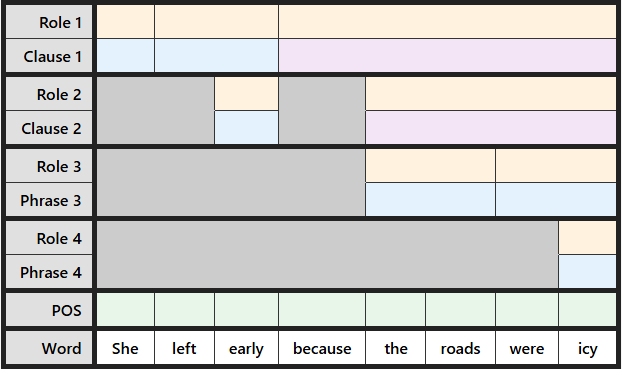
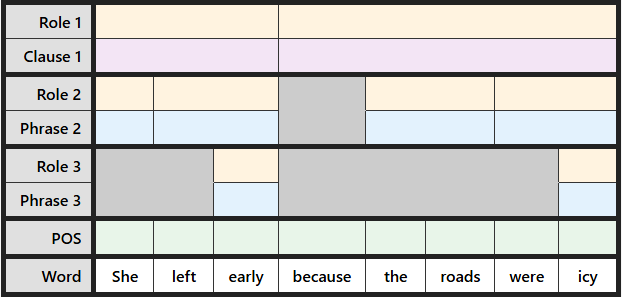
Fix Ex 18 bracket: SBAR → IC/DC clause notation for labeling table
Replaced SBAR/COMP/S bracket with IC/DC notation so the labeling table
shows a single clause row with IC (She left early) and DC (because the
roads were icy). Updated JSON roles and answer key script to match.

diff --git a/docs/index.html b/docs/index.html
@@ -2,7 +2,7 @@
 <html>
 <!--********************************************-->
 <!--*       Generated from PreTeXt source      *-->
-<!--*       on 2026-04-15T14:53:40-06:00       *-->
+<!--*       on 2026-04-15T15:13:05-06:00       *-->
 <!--*   A recent stable commit (2022-07-01):   *-->
 <!--* 6c761d3dba23af92cba35001c852aac04ae99a5f *-->
 <!--*                                          *-->

diff --git a/scripts/generate_ch12_answer_key.py b/scripts/generate_ch12_answer_key.py
@@ -59,10 +59,10 @@ DIAGRAM_EXERCISES = [
     {
         'num': 18, 'sentence': 'She left early because the roads were icy.',
         'words':   ['She', 'left', 'early', 'because', 'the', 'roads', 'were', 'icy'],
-        'roles':   ['Subj', 'Pred', '', 'Advl', '', '', '', ''],
-        'phrases': ['NP', 'VP', 'ADVP', 'SBAR', 'NP', '', 'VP', 'ADJP'],
-        'pos':     ['PRON', 'V', 'ADV', 'COMP', 'DET', 'N', 'V', 'ADJ'],
-        'bracket': '[S [NP [PRON She]] [VP [V left] [ADVP [ADV early]]] [SBAR [COMP because] [S [NP [DET the] [N roads]] [VP [V were] [ADJP [ADJ icy]]]]]]',
+        'roles':   ['Main', '', '', 'Advl', '', '', '', ''],
+        'phrases': ['IC', '', '', 'DC', '', '', '', ''],
+        'pos':     ['PRON', 'V', 'ADV', 'SUB', 'DET', 'N', 'V', 'ADJ'],
+        'bracket': '[S [IC [NP [PRON She]] [VP [V left] [ADVP [ADV early]]]] [DC [SUB because] [NP [DET the] [N roads]] [VP [V were] [ADJP [ADJ icy]]]]]',
         'diagram': 'ch12_hw_ex18_left_early',
     },
 ]
